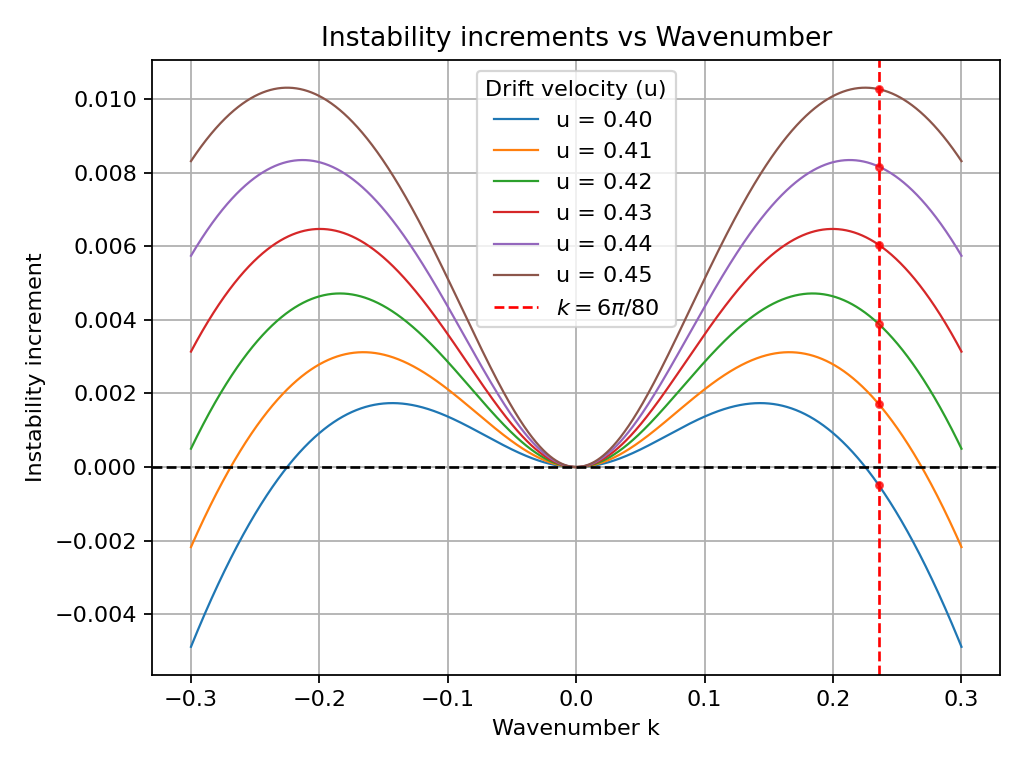
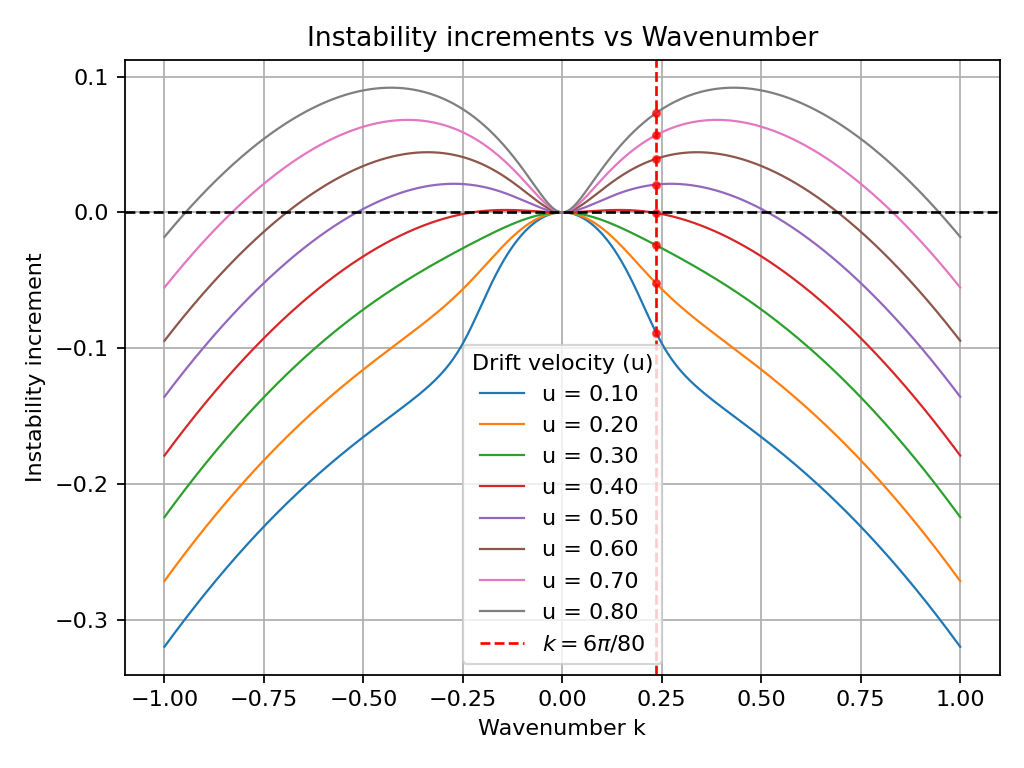
Refine instability increment analysis by expanding drift velocity range to 0.1-0.8 and updating associated visualizations. Adjusted `linear_instability_increment.py` to reflect new velocity values and modified PDF and PNG outputs accordingly.

diff --git a/linear instability increment/linear_instability_increment.py b/linear instability increment/linear_instability_increment.py
@@ -7,8 +7,8 @@ eta_n = 0.2
 n = 1.0
 w = 0.5
 gamma0 = 2.5
-kmin = -0.3
-kmax = 0.3
+kmin = -1.0
+kmax = 1.0
 N = 20000
 Lambda = -(1 / w + 1 / n) * np.exp(-n / w)
 fig, ax = plt.subplots()
@@ -16,7 +16,7 @@ fig, ax = plt.subplots()
 
 u_star = 0.37671861
 
-u_values = np.arange(0.4, 0.46, 0.01)#np.append(np.arange(0.4, 0.46, 0.01), u_star)
+u_values = np.arange(0.1, 0.9, 0.1)#np.append(np.arange(0.4, 0.46, 0.01), u_star)
 
 for u in u_values:
     k_out = np.linspace(kmin, kmax, N)
